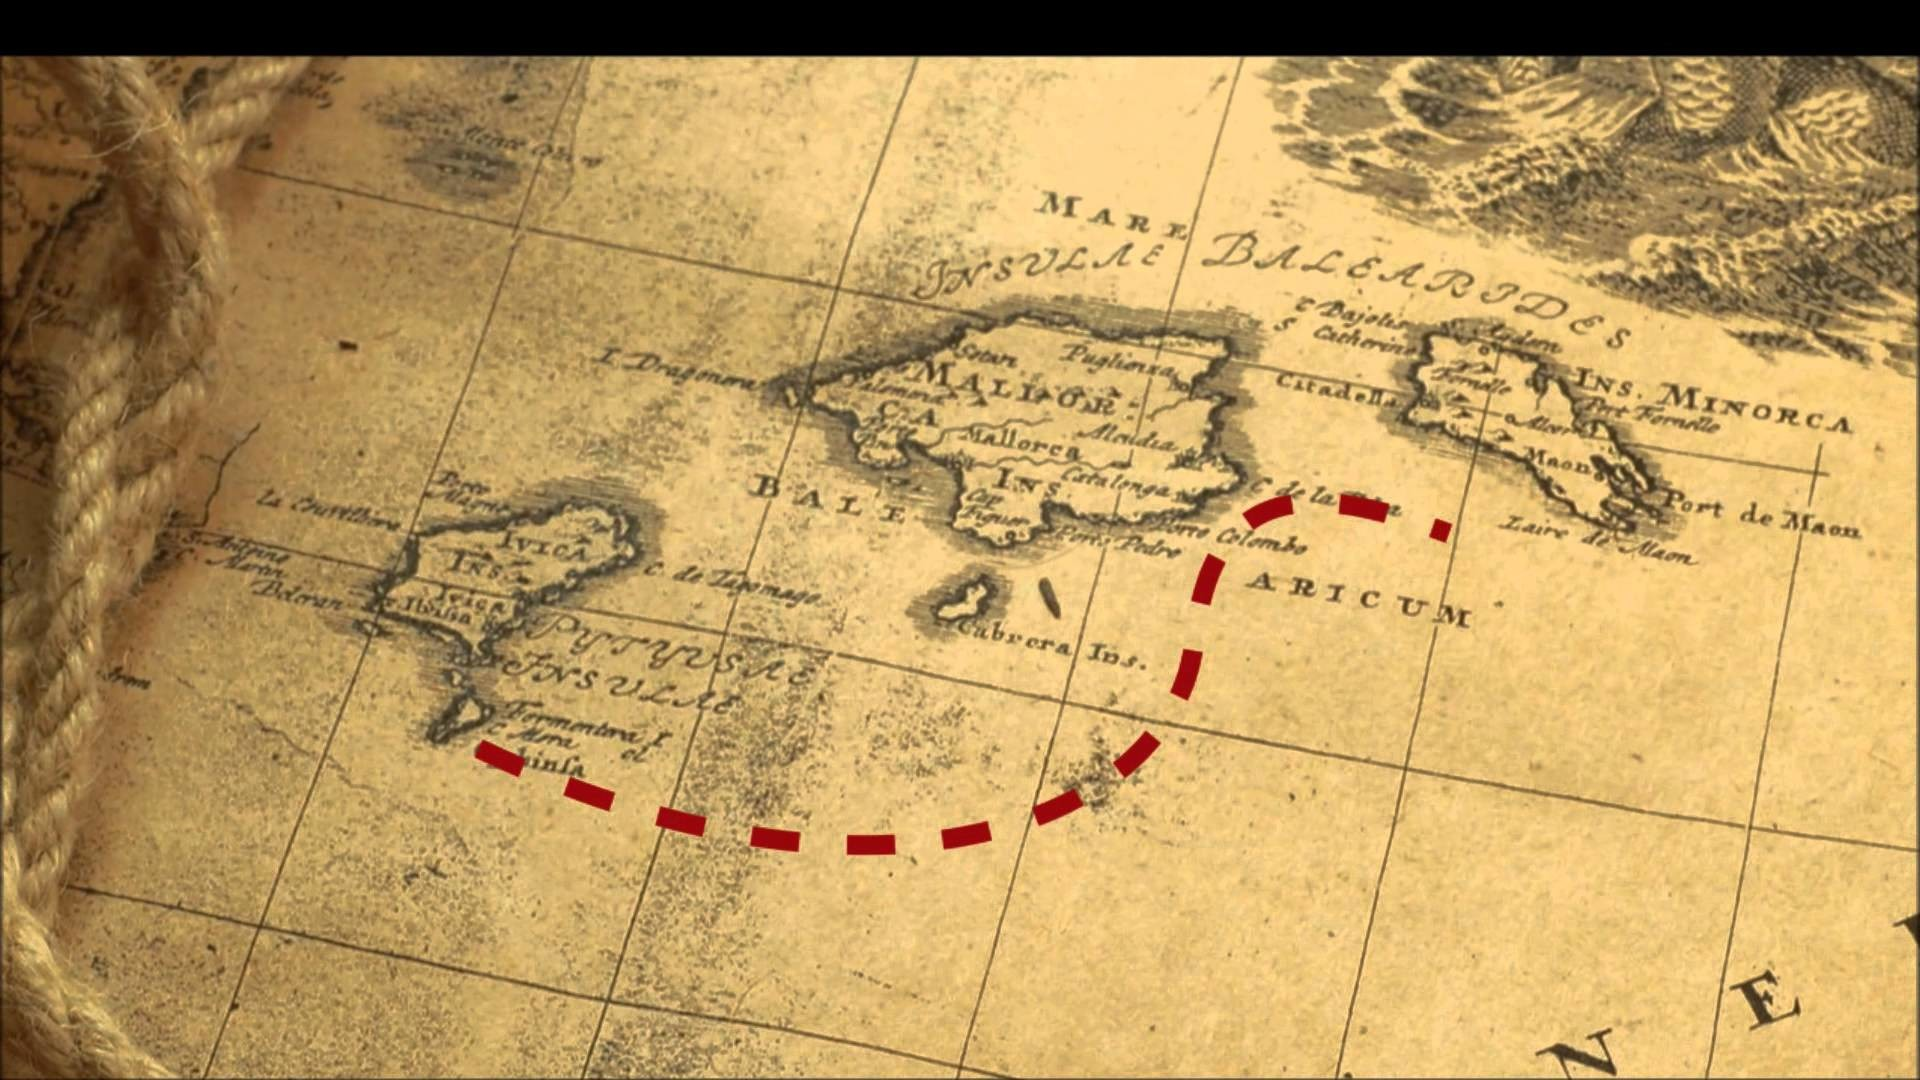
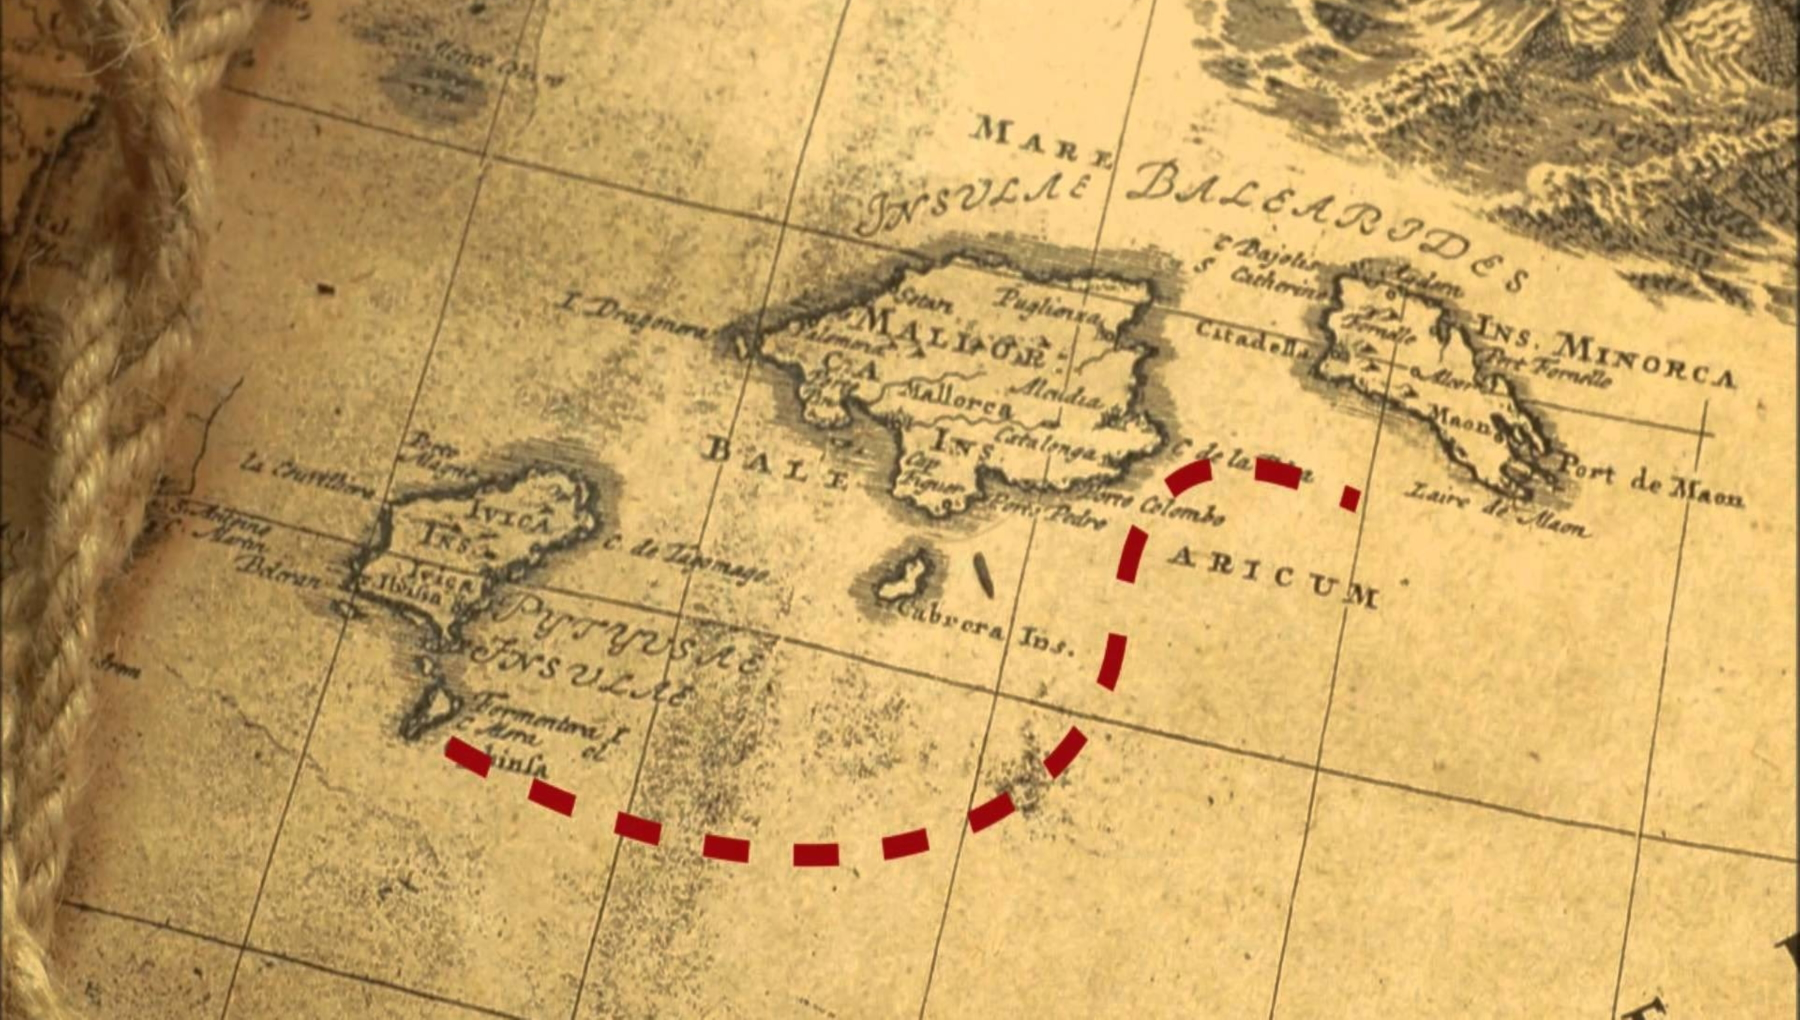
added scaleable images

diff --git a/main.py b/main.py
@@ -16,6 +16,8 @@ windowHeight = window.height
 maps_layer = pyglet.graphics.OrderedGroup(-2)
 buttons_layer = pyglet.graphics.OrderedGroup(-1)
 
+
+
 playerName = "Peyton"
 
 
@@ -30,10 +32,14 @@ def init():
 
 # menu funtion
 def menu():
+
+
     start_screen_batch = pyglet.graphics.Batch()
 
     start_map_sprite = pyglet.sprite.Sprite(start_map, x=windowWidth / 2, y=windowHeight / 2, batch=start_screen_batch,
                                             group=maps_layer)
+    start_map_sprite.scale_x = windowWidth/start_map_sprite.width
+    start_map_sprite.scale_y = windowHeight / start_map_sprite.height
     start_button_sprite = pyglet.sprite.Sprite(start_button, x=windowWidth / 4, y=windowHeight / 4,
                                                batch=start_screen_batch,
                                                group=buttons_layer)
@@ -79,35 +85,41 @@ def store_menu():
     def create_square(batch, x, y, x2, y2):
         line_left = pyglet.shapes.Line(x, y, x, y2,
                                        color=(0, 0, 0), width=20, batch=batch, group=buttons_layer)
-        line_bottom = pyglet.shapes.Line(x-10, y, x2+10, y,
+        line_bottom = pyglet.shapes.Line(x - 10, y, x2 + 10, y,
                                          color=(0, 0, 0), width=20, batch=batch, group=buttons_layer)
-        line_top = pyglet.shapes.Line(x-10, y2, x2+10, y2,
+        line_top = pyglet.shapes.Line(x - 10, y2, x2 + 10, y2,
                                       color=(0, 0, 0), width=20, batch=batch, group=buttons_layer)
         line_right = pyglet.shapes.Line(x2, y, x2, y2,
                                         color=(0, 0, 0), width=20, batch=batch, group=buttons_layer)
         return [line_left, line_bottom, line_top, line_right]
+
     def item_buy(integer):
-        print("You tried to buy "+str(integer)+", but you get nothing!")
+        print("You tried to buy " + str(integer) + ", but you get nothing!")
 
     store_menu_batch = pyglet.graphics.Batch()
     store_menu_sprite = pyglet.sprite.Sprite(store_map, x=windowWidth / 2, y=windowHeight / 2, batch=store_menu_batch,
                                              group=maps_layer)
+    store_menu_sprite.scale_x = windowWidth/start_map_sprite.width
+    store_menu_sprite.scale_y = windowHeight / start_map_sprite.height
     store_label = pyglet.text.Label('S T O R E',
                                     font_name='Times New Roman',
                                     font_size=50, group=buttons_layer,
                                     x=window.width / 2, y=window.height // 1.1, batch=store_menu_batch)
 
     # line_left = pyglet.shapes.Line(400, 200, 400, 300,color=(255, 0, 0), width=20, batch=store_menu_batch,group=buttons_layer)
-    bottom_square = create_square(store_menu_batch, x=windowWidth / 3-50, y=windowHeight / 3-50, x2=windowWidth / 3+50, y2=windowHeight / 3+50)
-    top_square = create_square(store_menu_batch, x=windowWidth / 3 - 50, y=2*windowHeight / 3 - 50,
-                                  x2=windowWidth / 3 + 50, y2=2*windowHeight / 3 + 50)
+    bottom_square = create_square(store_menu_batch, x=windowWidth / 3 - 50, y=windowHeight / 3 - 50,
+                                  x2=windowWidth / 3 + 50, y2=windowHeight / 3 + 50)
+    top_square = create_square(store_menu_batch, x=windowWidth / 3 - 50, y=2 * windowHeight / 3 - 50,
+                               x2=windowWidth / 3 + 50, y2=2 * windowHeight / 3 + 50)
+    plane_square_1 = create_square(store_menu_batch, x=windowWidth / 3 - 50, y=windowHeight * 0.95,
+                               x2=windowWidth / 3 + 50, y2=2 * windowHeight * 0.9)
     store_label.x = store_label.x - store_label.content_width / 2
 
     @window.event
     def on_mouse_press(x, y, button, modifiers):
-        if windowWidth / 3-50 < x < windowWidth / 3+50 + 150 and windowHeight / 3-50 < y < windowHeight / 3+50:
+        if windowWidth / 3 - 50 < x < windowWidth / 3 + 50 + 150 and windowHeight / 3 - 50 < y < windowHeight / 3 + 50:
             item_buy(1)
-        elif windowWidth / 3 - 50 < x < windowWidth / 3 + 50 + 150 and 2*windowHeight / 3 - 50 < y < 2*windowHeight / 3 + 50:
+        elif windowWidth / 3 - 50 < x < windowWidth / 3 + 50 + 150 and 2 * windowHeight / 3 - 50 < y < 2 * windowHeight / 3 + 50:
             item_buy(2)
 
     @window.event
@@ -184,6 +196,8 @@ def start():
     enemies.append(test_enemy)
     # initializing the background
     level_map_object = PhysicalObject(level_map, x=windowWidth / 2, batch=level_batch, group=maps_layer)
+    level_map_object.scale_x = windowWidth/level_map_object.width
+
     game_objects.append(level_map_object)
     level_map_object.velocity_y = -1
 

diff --git a/resources.py b/resources.py
@@ -34,7 +34,7 @@ exit_button = pyglet.resource.image("exit_button.png")
 center_image(exit_button)
 
 start_map = pyglet.resource.image("placeholdermap.jpg")
-
+center_image(start_map)
 
 level_map = pyglet.resource.image("level_background.png")
 center_image(level_map)
